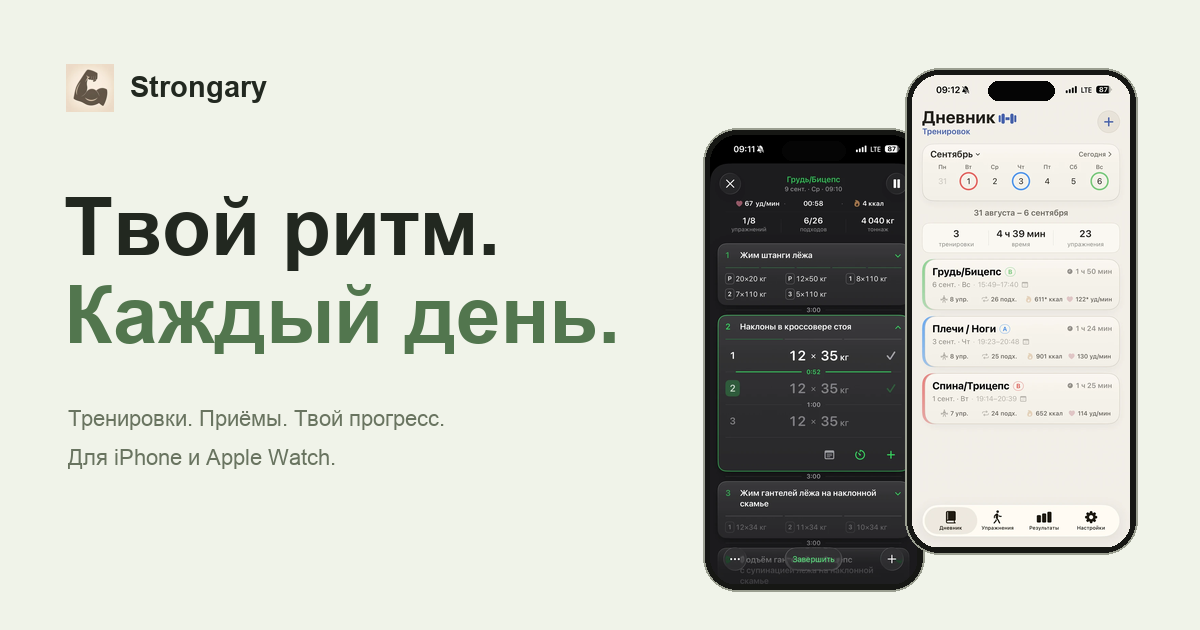
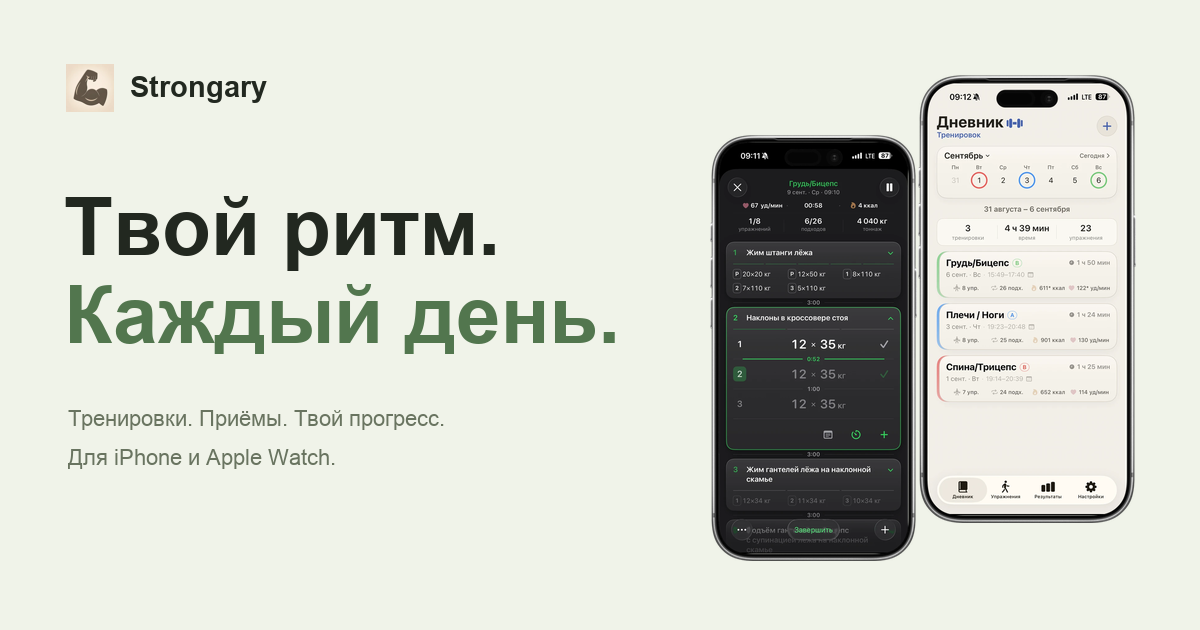
Relaunch Strongary with training and intake stories

Changed region(s): [[0.5858, 0.0905, 0.9558, 0.9651]]

diff --git a/styles.css b/styles.css
@@ -55,9 +55,9 @@ button, input { font: inherit; }
 .hero-stage { position: relative; height: 655px; margin-top: 66px; isolation: isolate; }
 .hero-halo { position: absolute; z-index: -1; width: 740px; height: 740px; left: 50%; top: 38px; transform: translateX(-50%); border: 1px solid #d9e1d2; border-radius: 50%; background: radial-gradient(circle at 50% 35%, #e8efdf 0, #edf1e5 28%, rgb(239 243 231 / 30%) 63%, transparent 70%); }
 .hero-halo::after { content: ""; position: absolute; inset: 42px; border-radius: 50%; border: 1px solid rgb(200 212 188 / 45%); }
-.device-phone { display: block; width: 100%; position: relative; padding: 7px; border: 1px solid #6b6c67; border-radius: 44px; background: #161714; box-shadow: 0 0 0 2px #c6c8c0, 0 0 0 3px #9b9c97, 0 18px 35px -8px rgb(29 38 22 / 21%), inset 0 0 0 1px #4f504b; isolation: isolate; }
-.device-phone img { border-radius: 36px; width: 100%; background: #eeede5; }
-.device-phone::after { content: ""; position: absolute; top: 15px; left: 35%; width: 30%; height: 24px; border-radius: 30px; background: #050505; pointer-events: none; }
+.device-phone { display: block; width: 100%; position: relative; aspect-ratio: 389 / 800; isolation: isolate; filter: drop-shadow(0 18px 20px rgb(29 38 22 / 18%)); }
+.device-phone img { position: absolute; left: 4.4%; top: 1.7%; width: 91.2%; height: 96.5%; object-fit: contain; background: #000; border-radius: 14% / 6.4%; }
+.device-phone::after { content: ""; position: absolute; inset: 0; background: url("assets/devices/iphone-17-pro-max.png") center / 100% 100% no-repeat; pointer-events: none; }
 .device-zoom { position: absolute; bottom: 25px; right: 20px; width: 33px; height: 33px; border-radius: 50%; display: grid; place-items: center; background: rgb(255 255 255 / 92%); color: #292e26; box-shadow: 0 2px 10px #0002; opacity: 0; transform: translateY(4px); transition: .25s; }
 .device-zoom .icon { width: 17px; height: 17px; }
 .device-phone:hover .device-zoom, .device-phone:focus-visible .device-zoom { opacity: 1; transform: none; }
@@ -65,9 +65,6 @@ button, input { font: inherit; }
 .hero-device-center { width: 280px; left: calc(50% - 140px); top: 0; z-index: 3; transform: translateY(calc(var(--hero-shift, 0) * -18px)); }
 .hero-device-left { width: 238px; left: calc(50% - 357px); top: 57px; z-index: 2; transform: translate(calc(var(--hero-shift, 0) * -30px), calc(var(--hero-shift, 0) * 16px)) rotate(-9deg); }
 .hero-device-right { width: 238px; right: calc(50% - 357px); top: 57px; z-index: 1; transform: translate(calc(var(--hero-shift, 0) * 30px), calc(var(--hero-shift, 0) * 16px)) rotate(9deg); }
-.hero-device-left .device-phone, .hero-device-right .device-phone { border-radius: 38px; }
-.hero-device-left .device-phone img, .hero-device-right .device-phone img { border-radius: 31px; }
-.hero-device-left .device-phone::after, .hero-device-right .device-phone::after { height: 20px; top: 13px; }
 .hero-side-note { position: absolute; top: 245px; }
 .tiny-label { display: block; color: var(--green); font-size: 9px; font-weight: 600; letter-spacing: .13em; }
 .hero-side-note p { color: #6f7869; font-size: 14px; line-height: 1.45; margin-top: 12px; }
@@ -96,7 +93,7 @@ h2 span { color: var(--green); }
 .story-visual { position: sticky; top: 100px; padding: 25px 0; width: 100%; }
 .story-plate { background: #eff1ea; border-radius: 28px; min-height: 670px; display: flex; align-items: center; flex-direction: column; justify-content: space-between; padding: 28px 20px 23px; }
 .plate-label { font-size: 9px; letter-spacing: .11em; color: #6b7562; font-weight: 600; margin-bottom: 26px; }
-.story-phone-stack { position: relative; width: min(255px, 67%); aspect-ratio: 640 / 1387; margin-bottom: 28px; }
+.story-phone-stack { position: relative; width: min(255px, 67%); aspect-ratio: 389 / 800; margin-bottom: 28px; }
 .story-screen { position: absolute; inset: 0; opacity: 0; visibility: hidden; transform: translateY(15px) scale(.97); transition: opacity .55s ease, transform .7s var(--ease), visibility .55s; }
 .story-screen.is-active { opacity: 1; visibility: visible; transform: none; }
 .story-controls { display: flex; gap: 7px; justify-content: center; width: 100%; }
@@ -138,16 +135,14 @@ h2 span { color: var(--green); }
 .watch-copy h2 { font-size: clamp(50px, 5.5vw, 76px); margin-top: 28px; }
 .watch-copy > p:not(.eyebrow) { color: #b0b8a9; font-size: 17px; line-height: 1.7; margin-top: 28px; }
 .watch-note { display: block; color: #c3cfb7; font-size: 12px; margin-top: 35px; }
-.watch-devices { display: flex; gap: 32px; align-items: center; justify-content: center; padding-block: 50px; }
-.watch-devices figure { position: relative; width: 230px; padding-block: 35px; isolation: isolate; }
+.watch-devices { display: flex; gap: 20px; align-items: center; justify-content: center; padding-block: 50px; }
+.watch-devices figure { position: relative; width: 270px; padding-block: 0; isolation: isolate; }
 .watch-devices figure:first-child { transform: translateY(-28px) rotate(-7deg); }
 .watch-devices figure:last-child { transform: translateY(44px) rotate(7deg); }
-.device-watch { display: block; position: relative; background: linear-gradient(120deg,#8a8c80,#333830 15%,#92968c 20%,#393e35 25%,#151a13 60%,#7b8074 88%,#30362b); padding: 15px; border: 1px solid #88917e; border-radius: 57px; box-shadow: 0 15px 35px #0004, inset 0 0 0 2px #30362b; }
-.device-watch::before { content: ""; position: absolute; right: -7px; top: 64px; width: 8px; height: 35px; background: repeating-linear-gradient(0deg,#727969 0 2px,#b2b6a9 2px 3px); border-radius: 4px; }
-.device-watch::after { content: ""; position: absolute; left: -4px; top: 110px; width: 4px; height: 37px; background: #ba7238; border-radius: 3px; }
-.device-watch img { width: 100%; border: 4px solid #090a09; border-radius: 42px; }
-.watch-strap { position: absolute; inset: -20px 33px 25px; z-index: -1; background: repeating-linear-gradient(0deg,#737c66 0 3px,#5e6854 3px 4px); border: 1px solid #7b856f; border-radius: 34px; }
-.watch-devices figure:last-child .watch-strap { background: repeating-linear-gradient(0deg,#c6c3b2 0 3px,#b6b4a3 3px 4px); border-color: #d0cdbc; }
+.device-watch { display: block; position: relative; width: 100%; aspect-ratio: 600 / 960; isolation: isolate; filter: drop-shadow(0 16px 18px rgb(0 0 0 / 25%)); }
+
+.device-watch::after { content: ""; position: absolute; inset: 0; background: url("assets/devices/apple-watch-ultra-3-black.webp") center / 100% 100% no-repeat; pointer-events: none; }
+.device-watch img { position: absolute; left: 14.667%; top: 23.125%; width: 70.667%; height: 53.75%; object-fit: contain; background: #000; border-radius: 26% / 21%; }
 .watch-devices figcaption { position: absolute; top: calc(100% + 20px); width: 100%; text-align: center; color: #aab59f; font-size: 12px; }
 .details-section { display: grid; grid-template-columns: .85fr 1.15fr; gap: 75px; padding-block: 120px; }
 .details-section h2 { font-size: 40px; margin-top: 25px; max-width: 330px; }
@@ -222,9 +217,7 @@ h2 span { color: var(--green); }
   .results-phone.rear { width: 210px; right: 0; }
   .results-visual { height: 560px; }
   .watch-devices { gap: 25px; }
-  .watch-devices figure { width: 200px; }
-  .device-watch { padding: 12px; border-radius: 47px; }
-  .device-watch img { border-radius: 35px; }
+  .watch-devices figure { width: 235px; }
 }
 @media (max-width: 900px) {
   .wrap { width: calc(100% - 56px); }
@@ -255,8 +248,8 @@ h2 span { color: var(--green); }
   .intake-features { gap: 30px; }
   .intake-features h3 { font-size: 20px; }
   .watch-layout { grid-template-columns: 1fr; padding-block: 80px 110px; text-align: center; }
-  .watch-devices { max-width: 550px; margin-inline: auto; gap: 65px; }
-  .watch-devices figure { width: 230px; }
+  .watch-devices { max-width: 580px; margin-inline: auto; gap: 40px; }
+  .watch-devices figure { width: 250px; }
   .watch-copy h2 br { display: none; }
   .watch-note { margin-top: 20px; }
   .details-section { gap: 50px; padding-block: 85px; }
@@ -284,12 +277,6 @@ h2 span { color: var(--green); }
   .hero-device-center { width: 186px; left: calc(50% - 93px); }
   .hero-device-left { width: 158px; left: calc(50% - 216px); top: 49px; }
   .hero-device-right { width: 158px; right: calc(50% - 216px); top: 49px; }
-  .hero-device .device-phone { padding: 4px; border-radius: 29px; box-shadow: 0 0 0 1px #c6c8c0, 0 0 0 2px #9b9c97, 0 14px 30px -8px #1d26163b; }
-  .hero-device .device-phone img { border-radius: 24px; }
-  .hero-device .device-phone::after { height: 16px; top: 9px; }
-  .hero-device-left .device-phone, .hero-device-right .device-phone { border-radius: 24px; }
-  .hero-device-left .device-phone img, .hero-device-right .device-phone img { border-radius: 20px; }
-  .hero-device-left .device-phone::after, .hero-device-right .device-phone::after { height: 13px; top: 8px; }
   .hero-halo { width: 510px; height: 510px; top: 0; }
   .hero-bottom { justify-content: center; padding-bottom: 20px; font-size: 10px; }
   .hero-bottom > a { display: none; }
@@ -317,9 +304,6 @@ h2 span { color: var(--green); }
   .results-visual { width: 100%; height: 465px; max-width: 420px; }
   .results-phone.front { width: 195px; left: 5%; top: 0; }
   .results-phone.rear { width: 170px; right: 5%; top: 45px; }
-  .results-phone .device-phone { border-radius: 30px; padding: 5px; }
-  .results-phone .device-phone img { border-radius: 24px; }
-  .results-phone .device-phone::after { height: 16px; top: 10px; }
   .results-orbit { width: min(340px, 100%); height: auto; aspect-ratio: 1; top: 45px; }
   .intakes-section { padding-block: 65px 60px; }
   .intakes-heading h2 { font-size: clamp(38px, 9.2vw, 52px); }
@@ -328,9 +312,6 @@ h2 span { color: var(--green); }
   .intake-phone { width: 194px; }
   .intake-phone-day { left: calc(50% - 172px); }
   .intake-phone-stats { right: calc(50% - 172px); top: 55px; }
-  .intake-phone .device-phone { padding: 5px; border-radius: 32px; }
-  .intake-phone .device-phone img { border-radius: 26px; }
-  .intake-phone .device-phone::after { height: 16px; top: 11px; }
   .intakes-orbit { width: 500px; height: 500px; top: -5px; }
   .intake-features { grid-template-columns: 1fr; gap: 28px; padding-top: 35px; }
   .intake-features article { display: grid; grid-template-columns: 34px 1fr; column-gap: 18px; }
@@ -342,14 +323,9 @@ h2 span { color: var(--green); }
   .watch-copy h2 br { display: initial; }
   .watch-copy > p:not(.eyebrow) { font-size: 15px; margin-top: 21px; }
   .watch-devices { gap: 25px; width: 100%; padding-block: 35px; }
-  .watch-devices figure { width: min(42vw, 180px); padding-block: 25px; }
+  .watch-devices figure { width: min(43vw, 190px); padding-block: 0; }
   .watch-devices figure:first-child { transform: translateY(-10px) rotate(-7deg); }
   .watch-devices figure:last-child { transform: translateY(30px) rotate(7deg); }
-  .watch-strap { inset: -15px 25px 17px; border-radius: 25px; }
-  .device-watch { border-radius: 38px; padding: 9px; }
-  .device-watch img { border-radius: 29px; border-width: 3px; }
-  .device-watch::before { top: 45px; height: 26px; width: 6px; right: -5px; }
-  .device-watch::after { top: 80px; height: 26px; }
   .watch-devices figcaption { font-size: 10px; top: calc(100% + 12px); }
   .details-section { grid-template-columns: 1fr; gap: 28px; padding-block: 65px; }
   .details-section h2 { font-size: 34px; max-width: none; margin-top: 18px; }

diff --git a/index.html b/index.html
@@ -19,7 +19,7 @@
 <link rel="icon" href="/favicon.ico" sizes="16x16 32x32 48x48">
 <link rel="icon" type="image/png" sizes="32x32" href="/favicon-32.png">
 <link rel="apple-touch-icon" href="/apple-touch-icon.png">
-<link rel="stylesheet" href="styles.css?v=20261017-1">
+<link rel="stylesheet" href="styles.css?v=20261017-2">
 <script src="site-config.js?v=20261017-1" defer></script>
 <script src="site.js?v=20261017-1" defer></script>
 <script src="analytics.js" defer></script>
@@ -77,7 +77,7 @@
 </div></section>
 <section class="watch-section" id="watch" aria-labelledby="watch-title"><div class="watch-layout wrap">
 <div class="watch-copy" data-reveal><p class="eyebrow">STRONGARY НА APPLE WATCH</p><h2 id="watch-title">Рядом.<br> На запястье.</h2><p>Отметить подход. Проверить пульс.<br>Записать приём. Не отвлекаясь на телефон.</p><span class="watch-note">Тот же ритм. Ещё ближе.</span></div>
-<div class="watch-devices" data-reveal><figure><div class="watch-strap" aria-hidden="true"></div><a class="device-watch" href="assets/screenshots/watch/workout.png" data-zoom aria-label="Увеличить: Apple Watch: текущий подход и пульс"><img src="assets/screenshots/watch/workout.webp" alt="Apple Watch: текущий подход и пульс" width="410" height="502" loading="lazy" decoding="async"></a><figcaption>Тренируйся.</figcaption></figure><figure><div class="watch-strap" aria-hidden="true"></div><a class="device-watch" href="assets/screenshots/watch/supplements.png" data-zoom aria-label="Увеличить: Apple Watch: список приёмов и отметки"><img src="assets/screenshots/watch/supplements.webp" alt="Apple Watch: список приёмов и отметки" width="410" height="502" loading="lazy" decoding="async"></a><figcaption>Заботься о себе.</figcaption></figure></div>
+<div class="watch-devices" data-reveal><figure><a class="device-watch" href="assets/screenshots/watch/workout.png" data-zoom aria-label="Увеличить: Apple Watch: текущий подход и пульс"><img src="assets/screenshots/watch/workout.webp" alt="Apple Watch: текущий подход и пульс" width="410" height="502" loading="lazy" decoding="async"></a><figcaption>Тренируйся.</figcaption></figure><figure><a class="device-watch" href="assets/screenshots/watch/supplements.png" data-zoom aria-label="Увеличить: Apple Watch: список приёмов и отметки"><img src="assets/screenshots/watch/supplements.webp" alt="Apple Watch: список приёмов и отметки" width="410" height="502" loading="lazy" decoding="async"></a><figcaption>Заботься о себе.</figcaption></figure></div>
 </div></section>
 <section class="details-section wrap" aria-labelledby="details-title"><div data-reveal><p class="eyebrow">ПАРА ДЕТАЛЕЙ</p><h2 id="details-title">Перед первым шагом.</h2></div>
 <div class="faq-list" data-reveal><details><summary>Как попробовать Strongary? <svg class="icon" aria-hidden="true"><use href="#plus"/></svg></summary><p>Мы готовимся к открытому тестированию. Когда оно начнётся, здесь появится ссылка для установки через TestFlight.</p></details><details><summary>Тренировки и приёмы обязательно вести вместе? <svg class="icon" aria-hidden="true"><use href="#plus"/></svg></summary><p>Выбирай то, что нужно тебе. Можно вести дневник тренировок, отмечать приёмы или использовать оба направления.</p></details><details><summary>Нужны ли Apple Watch? <svg class="icon" aria-hidden="true"><use href="#plus"/></svg></summary><p>Основной дневник работает на iPhone. Apple Watch дополняют его: можно отмечать подходы и приёмы прямо на запястье.</p></details><details><summary>Какая версия приложения на скриншотах? <svg class="icon" aria-hidden="true"><use href="#plus"/></svg></summary><p>Это реальные экраны Strongary на этапе разработки. Мы продолжаем улучшать приложение, поэтому к выпуску некоторые детали могут измениться.</p></details></div>

diff --git a/privacy.html b/privacy.html
@@ -1,4 +1,4 @@
-<!doctype html><html lang="ru"><head><meta charset="utf-8"><meta name="viewport" content="width=device-width, initial-scale=1"><title>Политика конфиденциальности — Strongary</title><meta name="theme-color" content="#f7f8f5"><link rel="icon" href="/favicon.ico"><link rel="canonical" href="https://strongary.com/privacy.html"><link rel="stylesheet" href="styles.css?v=20261017-1"><script src="analytics.js" defer></script></head><body><a class="skip-link" href="#main">К содержимому</a>
+<!doctype html><html lang="ru"><head><meta charset="utf-8"><meta name="viewport" content="width=device-width, initial-scale=1"><title>Политика конфиденциальности — Strongary</title><meta name="theme-color" content="#f7f8f5"><link rel="icon" href="/favicon.ico"><link rel="canonical" href="https://strongary.com/privacy.html"><link rel="stylesheet" href="styles.css?v=20261017-2"><script src="analytics.js" defer></script></head><body><a class="skip-link" href="#main">К содержимому</a>
 <header class="site-header"><div class="wrap header-inner">
 <a class="brand" href="/" aria-label="Strongary — на главную"><img src="icon.webp" width="32" height="32" alt=""><span>Strongary</span></a>
 <nav aria-label="Основная навигация"><a href="/#training">Тренировки</a><a href="/#intakes">Приёмы</a><a href="/#watch">Apple Watch</a></nav>

diff --git a/support.html b/support.html
@@ -1,4 +1,4 @@
-<!doctype html><html lang="ru"><head><meta charset="utf-8"><meta name="viewport" content="width=device-width, initial-scale=1"><title>Поддержка — Strongary</title><meta name="theme-color" content="#f7f8f5"><link rel="icon" href="/favicon.ico"><link rel="canonical" href="https://strongary.com/support.html"><link rel="stylesheet" href="styles.css?v=20261017-1"><script src="analytics.js" defer></script></head><body><a class="skip-link" href="#main">К содержимому</a>
+<!doctype html><html lang="ru"><head><meta charset="utf-8"><meta name="viewport" content="width=device-width, initial-scale=1"><title>Поддержка — Strongary</title><meta name="theme-color" content="#f7f8f5"><link rel="icon" href="/favicon.ico"><link rel="canonical" href="https://strongary.com/support.html"><link rel="stylesheet" href="styles.css?v=20261017-2"><script src="analytics.js" defer></script></head><body><a class="skip-link" href="#main">К содержимому</a>
 <header class="site-header"><div class="wrap header-inner">
 <a class="brand" href="/" aria-label="Strongary — на главную"><img src="icon.webp" width="32" height="32" alt=""><span>Strongary</span></a>
 <nav aria-label="Основная навигация"><a href="/#training">Тренировки</a><a href="/#intakes">Приёмы</a><a href="/#watch">Apple Watch</a></nav>

diff --git a/404.html b/404.html
@@ -1,1 +1,1 @@
-<!doctype html><html lang="ru"><head><meta charset="utf-8"><meta name="viewport" content="width=device-width, initial-scale=1"><meta name="robots" content="noindex"><title>Страница не найдена — Strongary</title><link rel="icon" href="/favicon.ico"><link rel="stylesheet" href="/styles.css?v=20261017-1"></head><body><main class="not-found wrap"><p class="eyebrow">STRONGARY / 404</p><h1>Здесь пока<br>ничего нет.</h1><p>Вернёмся к твоему ритму.</p><a class="button button-dark" href="/">На главную →</a></main></body></html>
+<!doctype html><html lang="ru"><head><meta charset="utf-8"><meta name="viewport" content="width=device-width, initial-scale=1"><meta name="robots" content="noindex"><title>Страница не найдена — Strongary</title><link rel="icon" href="/favicon.ico"><link rel="stylesheet" href="/styles.css?v=20261017-2"></head><body><main class="not-found wrap"><p class="eyebrow">STRONGARY / 404</p><h1>Здесь пока<br>ничего нет.</h1><p>Вернёмся к твоему ритму.</p><a class="button button-dark" href="/">На главную →</a></main></body></html>
